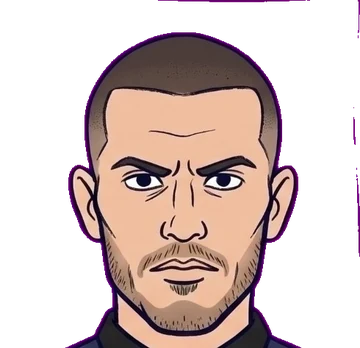
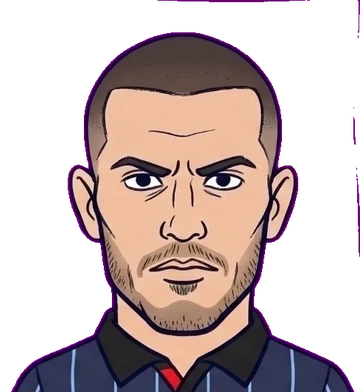
Fix first-row portraits sitting low (cutter mistook dark shirts for the grid line); drop GOT GOT stamp on pack cards; position shown as a navy tag under the rating
Claude-Session: https://claude.ai/code/session_01Emr74XbWxMFWWGtoF4YCQE

diff --git a/src/components/PackOpener.tsx b/src/components/PackOpener.tsx
@@ -36,8 +36,6 @@ interface Props {
   onRip?: () => void;
   /** Cards never pulled before get a NEW STICKER ribbon. */
   newIds?: Set<string>;
-  /** Album stickers you already have: they land as spares ("GOT GOT"). */
-  gotIds?: Set<string>;
 }
 
 const FLASH: Record<Tier, { color: string; max: number }> = {
@@ -83,7 +81,7 @@ function raysFor(tier: Tier, accent?: string) {
   return `conic-gradient(from 0deg at 50% 50%, ${stops.join(', ')}, transparent 360deg)`;
 }
 
-export function PackOpener({ packNumber, cards, packKey, selectedId, onSelect, rerollAvailable, onReroll, onRevealed, title, subtitle, packLabel, onRip, newIds, gotIds, wrapper }: Props) {
+export function PackOpener({ packNumber, cards, packKey, selectedId, onSelect, rerollAvailable, onReroll, onRevealed, title, subtitle, packLabel, onRip, newIds, wrapper }: Props) {
   const [stage, setStage] = useState<Stage>('sealed');
   const [flipped, setFlipped] = useState<Set<number>>(new Set());
   const [tearProgress, setTearProgress] = useState(0);
@@ -609,11 +607,6 @@ export function PackOpener({ packNumber, cards, packKey, selectedId, onSelect, r
                     {isFlipped && newIds?.has(card.id) && (
                       <span className="burst-clip pointer-events-none absolute -right-4 -top-4 z-30 flex h-[52px] w-[52px] animate-pop items-center justify-center bg-album-red font-chunky text-[13px] text-white" style={{ backfaceVisibility: 'hidden' }}>
                         NEW!
-                      </span>
-                    )}
-                    {isFlipped && gotIds?.has(card.id) && (
-                      <span className="pointer-events-none absolute left-1/2 top-[38%] z-30 -translate-x-1/2 -rotate-12 animate-stamp whitespace-nowrap rounded-md border-[3px] border-dashed border-album-red bg-album-cream/85 px-2 pb-0 pt-1 font-chunky text-[15px] text-album-red" style={{ backfaceVisibility: 'hidden' }}>
-                        GOT GOT
                       </span>
                     )}
                     <div className="absolute inset-0" style={{ backfaceVisibility: 'hidden', transform: 'rotateY(180deg)', pointerEvents: isFlipped ? 'none' : 'auto' }}>

diff --git a/src/App.tsx b/src/App.tsx
@@ -91,7 +91,6 @@ export default function App() {
   const [managerInfoOpen, setManagerInfoOpen] = useState(false);
   const [bookOpen, setBookOpen] = useState(false);
   const [newIds, setNewIds] = useState<Set<string>>(new Set());
-  const [gotIds, setGotIds] = useState<Set<string>>(new Set());
   // Daily Draft: the date this run is seeded from (null = a normal random run).
   const [dailyDay, setDailyDay] = useState<string | null>(null);
   const [dailyInfo, setDailyInfo] = useState<{ number: number; streak: number; text: string } | null>(null);
@@ -125,7 +124,6 @@ export default function App() {
     (num: number, lu: Lineup, draftedIds: Set<string>, f: FormationId, rng: () => number = Math.random) => {
       const cards = generatePack({ packNumber: num, pool: PLAYERS, draftedBaseIds: draftedIds, formationId: f, lineup: lu, rng });
       setNewIds(new Set(cards.filter((c) => inAlbum(c) && !isPulled(c.id)).map((c) => c.id)));
-      setGotIds(new Set(cards.filter((c) => inAlbum(c) && isPulled(c.id)).map((c) => c.id)));
       setPackCards(cards);
       setPackKey((k) => k + 1);
       setSelected(null);
@@ -495,7 +493,6 @@ export default function App() {
                       showTrophies(checkTrophies());
                     }}
                     newIds={newIds}
-                    gotIds={gotIds}
                     wrapper={dailyDay ? 'daily' : undefined}
                     onReroll={reroll}
                   />

diff --git a/src/components/tradingCard.css b/src/components/tradingCard.css
@@ -79,8 +79,8 @@
   top: 4px;
   left: 4px;
   z-index: 2;
-  width: 62px;
-  height: 62px;
+  width: 66px;
+  height: 66px;
   background: #ffd23f;
   clip-path: polygon(50% 0, 61% 18%, 82% 10%, 80% 32%, 100% 40%, 85% 56%, 96% 76%, 74% 78%, 68% 100%, 50% 88%, 32% 100%, 26% 78%, 4% 76%, 15% 56%, 0 40%, 20% 32%, 18% 10%, 39% 18%);
   display: flex;
@@ -89,8 +89,18 @@
   justify-content: center;
   line-height: 0.8;
 }
-.tc-star b { font-size: 27px; font-weight: 800; }
-.tc-star span { font-size: 11px; font-weight: 800; }
+.tc-star b { font-size: 27px; font-weight: 400; margin-top: 3px; }
+/* position: a navy tag under the rating so it reads at every size */
+.tc-star span {
+  margin-top: 1px;
+  background: var(--ink);
+  color: #fff;
+  font-size: 13px;
+  line-height: 1;
+  padding: 2px 4px 0;
+  border-radius: 3px;
+  letter-spacing: 0.04em;
+}
 .tc-tiny .tc-star { transform: scale(1.35); transform-origin: top left; }
 .tc-side {
   position: absolute;

diff --git a/design/flow/tools/cut_grid.py b/design/flow/tools/cut_grid.py
@@ -41,9 +41,10 @@ def cuts(n, size, axis):
             continue
         # widen to the whole dark line
         s, t = best, best
-        while s > lo and cover[s - 1] > 0.5 * cover[best]:
+        # widen to the whole line, but only through near-solid rows: dark shirts beside a line are not the line
+        while s > lo and cover[s - 1] > max(0.85, 0.9 * cover[best]):
             s -= 1
-        while t < hi - 1 and cover[t + 1] > 0.5 * cover[best]:
+        while t < hi - 1 and cover[t + 1] > max(0.85, 0.9 * cover[best]):
             t += 1
         out.append((s, t))
     out.append(size)
